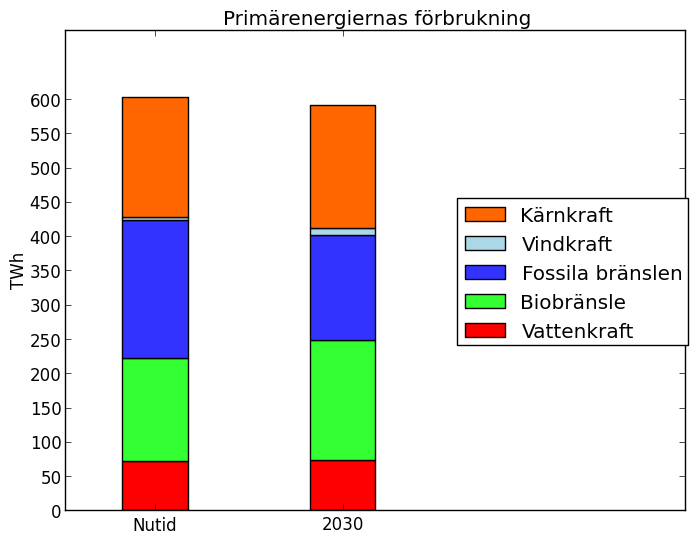
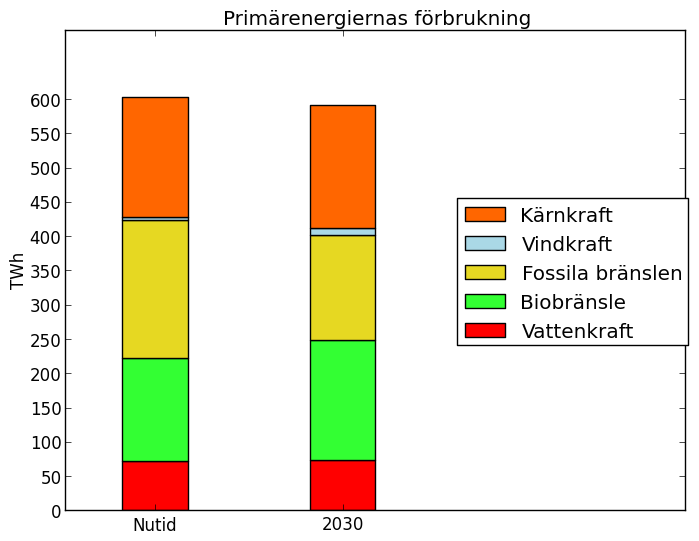
Changed colours to make more sense

Changed region(s): [[0.1502, 0.3845, 0.2704, 0.6802], [0.4206, 0.414, 0.5408, 0.6506], [0.6609, 0.4732, 0.721, 0.5323]]

diff --git a/code/scen2transport.py b/code/scen2transport.py
@@ -13,8 +13,8 @@ vaet = [0,9.4]
 
 p1 = plt.bar(ind, fos, width, color='#e6d822')
 p2 = plt.bar(ind, bio, width, color='#33ff33', bottom=fos)
-p3 = plt.bar(ind, el, width, color='#ff3333', bottom=[fos[j] +bio[j] for j in range(len(fos))])
-p4 = plt.bar(ind, vaet, width, color='#3333ff', bottom=[fos[j] +bio[j] + el[j] for j in range(len(fos))])
+p3 = plt.bar(ind, el, width, color='#3333ff', bottom=[fos[j] +bio[j] for j in range(len(fos))])
+p4 = plt.bar(ind, vaet, width, color='#ff3333', bottom=[fos[j] +bio[j] + el[j] for j in range(len(fos))])
 
 ax.set_xlim(-0.3, 1.5)
 ax.set_ylabel('TWh')

diff --git a/code/scen2energy.py b/code/scen2energy.py
@@ -14,7 +14,7 @@ kaern = [174.4988,192.336]
 
 p1 = plt.bar(ind, vat, width, color='#ff0000')
 p2 = plt.bar(ind, bio, width, color='#33ff33', bottom=vat)
-p3 = plt.bar(ind, fos, width, color='#3333ff', bottom=[vat[j] + bio[j] for j in range(len(vat))])
+p3 = plt.bar(ind, fos, width, color='#e6d822', bottom=[vat[j] + bio[j] for j in range(len(vat))])
 p4 = plt.bar(ind, vind, width, color='#aad8e6', bottom=[vat[j] + bio[j] + fos[j] for j in range(len(vat))])
 p5 = plt.bar(ind, kaern, width, color='#FF6600', bottom=[vat[j] + bio[j] + fos[j] + vind[j] for j in range(len(vat))])
 

diff --git a/code/scen1a1energy.py b/code/scen1a1energy.py
@@ -13,7 +13,7 @@ kaern = [174.4988,179.60]
 
 p1 = plt.bar(ind, vat, width, color='#ff0000')
 p2 = plt.bar(ind, bio, width, color='#33ff33', bottom=vat)
-p3 = plt.bar(ind, fos, width, color='#3333ff', bottom=[vat[j] + bio[j] for j in range(len(vat))])
+p3 = plt.bar(ind, fos, width, color='#e6d822', bottom=[vat[j] + bio[j] for j in range(len(vat))])
 p4 = plt.bar(ind, vind, width, color='#aad8e6', bottom=[vat[j] + bio[j] + fos[j] for j in range(len(vat))])
 p5 = plt.bar(ind, kaern, width, color='#FF6600', bottom=[vat[j] + bio[j] + fos[j] + vind[j] for j in range(len(vat))])
 

diff --git a/code/scen1a1transport.py b/code/scen1a1transport.py
@@ -10,7 +10,7 @@ fos = [94,22.2]
 bio = [11,60]
 el = [0,2.2]
 
-p1 = plt.bar(ind, fos, width, color='#ff3333')
+p1 = plt.bar(ind, fos, width, color='#e6d822')
 p2 = plt.bar(ind, bio, width, color='#33ff33', bottom=fos)
 p3 = plt.bar(ind, el, width, color='#3333ff', bottom=[fos[j] +bio[j] for j in range(len(fos))])
 
